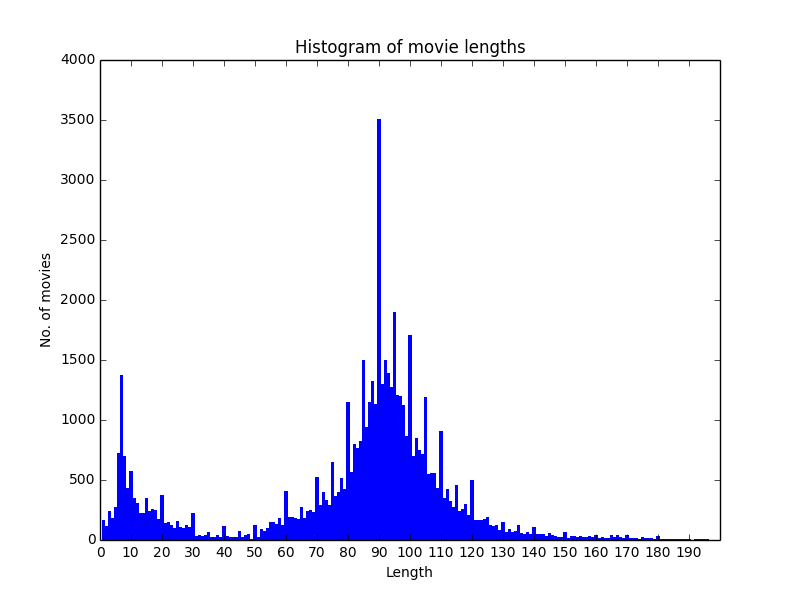
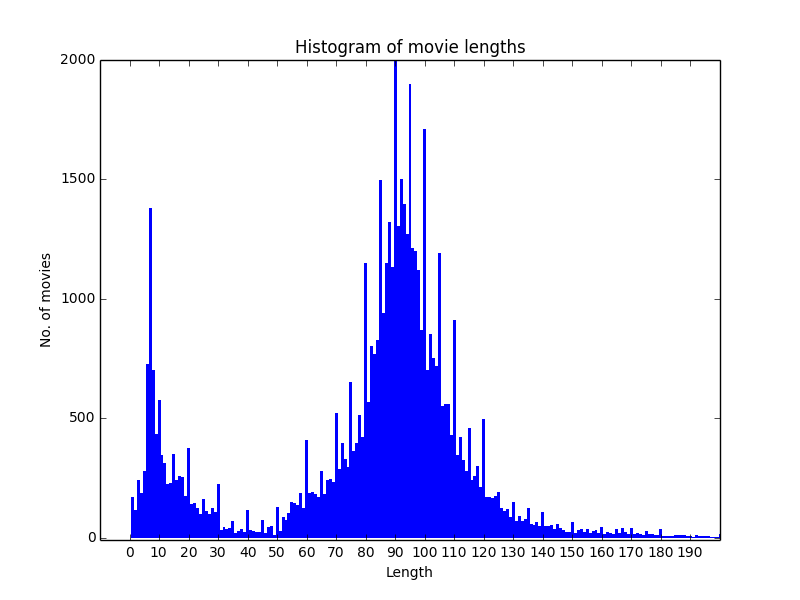
added ex 3 and 5

diff --git a/6_IMDB_dataset/question_1_2_3_5.py b/6_IMDB_dataset/question_1_2_3_5.py
@@ -26,6 +26,9 @@ ratings_dict = {}
 lengths_dict = {}
 title_lengths = {}
 years_dict = {}
+scatter_years = []
+scatter_length = []
+lengths_per_year_dict = {}
 with open(filename) as f:
     reader = csv.reader(f)
     header_row = next(reader)
@@ -43,9 +46,9 @@ with open(filename) as f:
 
         # To be able to show the majority on one graph, 
         # we ignore the few moves longer than 200 mins
-        if length not in lengths_dict.keys() and length < 200:
+        if length not in lengths_dict.keys():
             lengths_dict[length] = 1
-        elif length < 200:
+        else:
             lengths_dict[length] += 1
 
         if title_length not in title_lengths.keys() and title_length < 70:
@@ -58,6 +61,34 @@ with open(filename) as f:
         else:
             years_dict[year] += 1
 
+        scatter_length.append(length)
+        scatter_years.append(year)
+
+        # Question 3: create median line for year and length of movies
+        if year not in lengths_per_year_dict.keys():
+            lengths_per_year_dict[year] = [length]
+        else:
+            lengths_per_year_dict[year].append(length)
+
+
+# Calculate average length per year for median line
+avg_length_per_year_dict = {}
+for year, lengths_arr in lengths_per_year_dict.items():
+    avg_length = sum(lengths_arr) / len(lengths_arr)
+    avg_length_per_year_dict[year] = avg_length
+
+
+plt.scatter(scatter_years, scatter_length, c='b', alpha=0.3, s=3)
+plt.plot(avg_length_per_year_dict.keys(), avg_length_per_year_dict.values(), linewidth=2, label='Median line')
+plt.title('Scatter plot with year and length of movies')
+plt.xlabel('Year')
+plt.ylabel('Length of movie')
+plt.xlim(1890, 2010)
+plt.ylim(-10,300)
+plt.savefig('images/scatterplot_year_length')
+plt.clf()
+
+
 # Plot histogram for movie lengths
 lengths_x_axis = lengths_dict.keys()
 lengths_y_axis = lengths_dict.values()
@@ -69,6 +100,8 @@ plt.xlabel("Length", fontsize=10)
 plt.ylabel("No. of movies", fontsize=10)
 plt.tick_params(axis='both', which='major', labelsize=10)
 plt.xticks(range(0,200, 10))
+plt.xlim(-10, 200)
+plt.ylim(-10,2000)
 plt.savefig('images/length_dist.png')
 plt.clf()
 

diff --git a/6_IMDB_dataset/test.py b/6_IMDB_dataset/test.py
@@ -1,0 +1,2 @@
+from pprint import pprint
+
